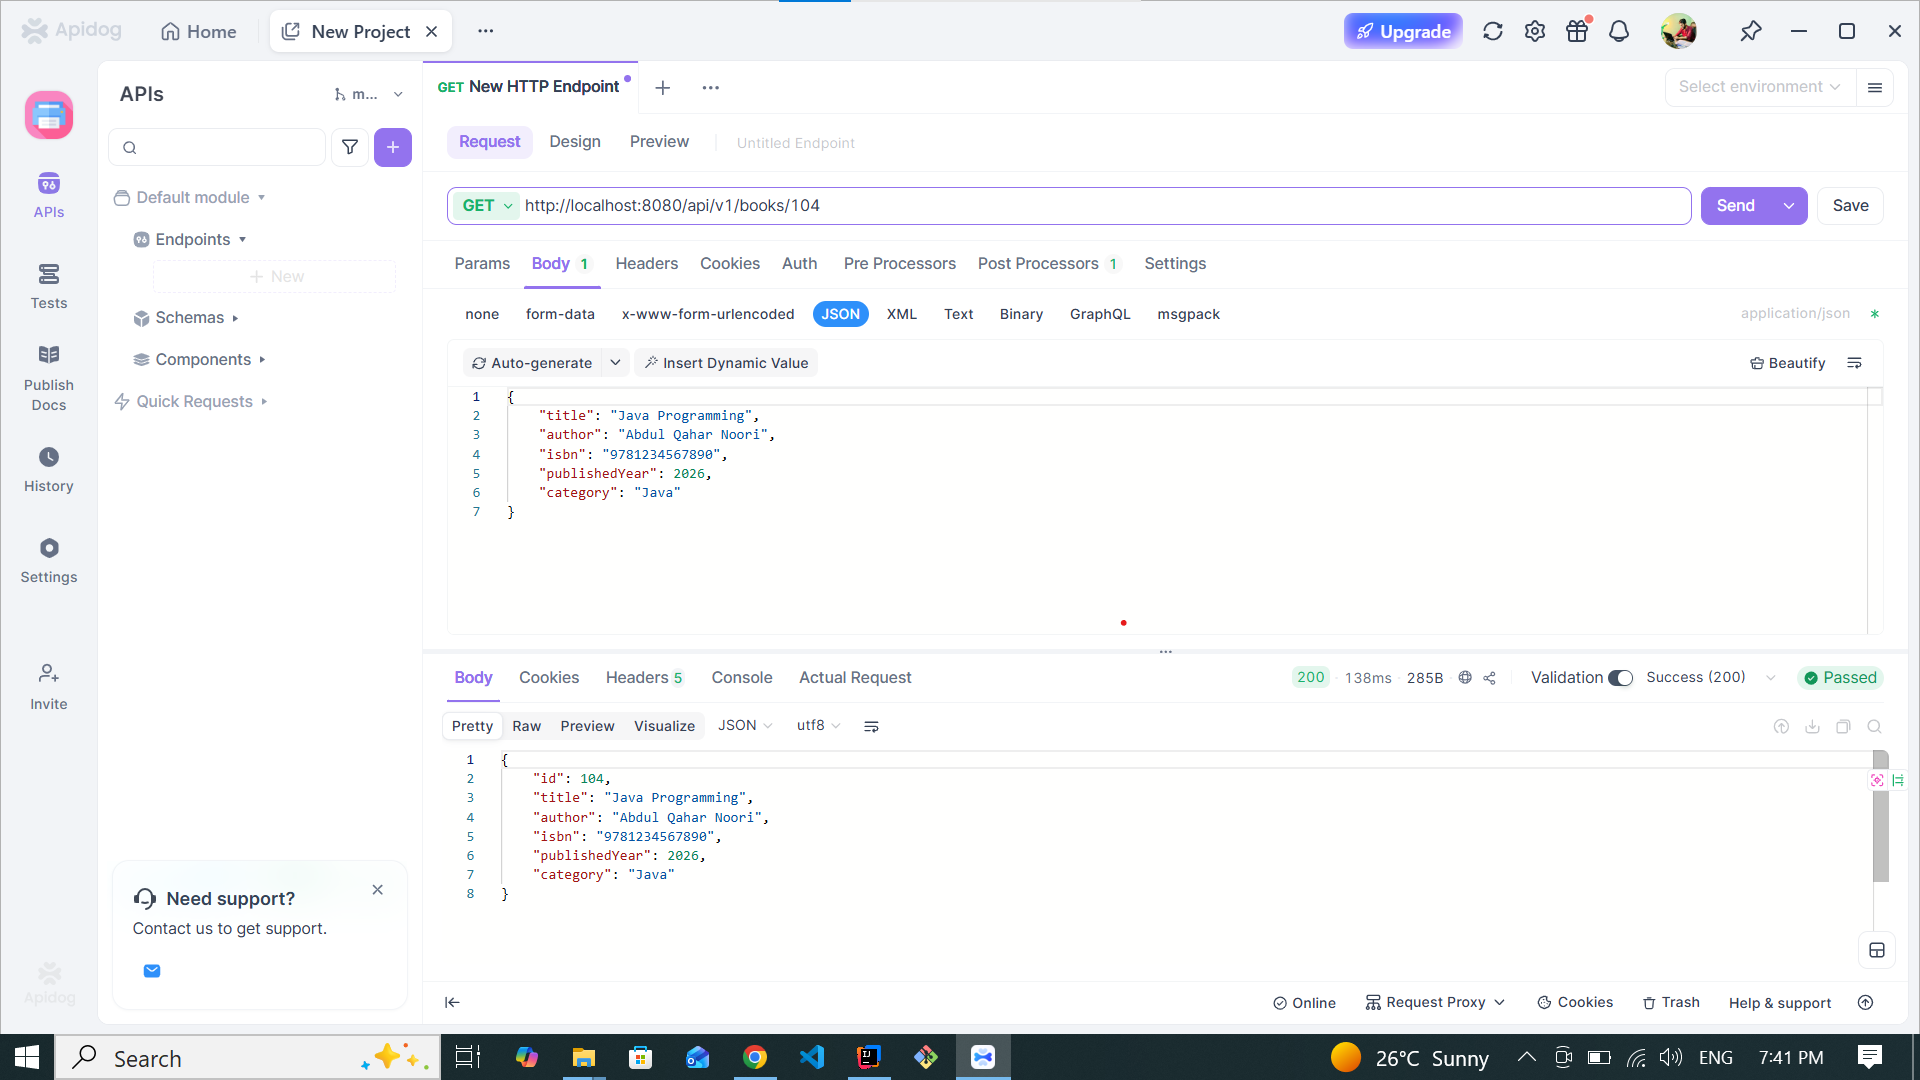
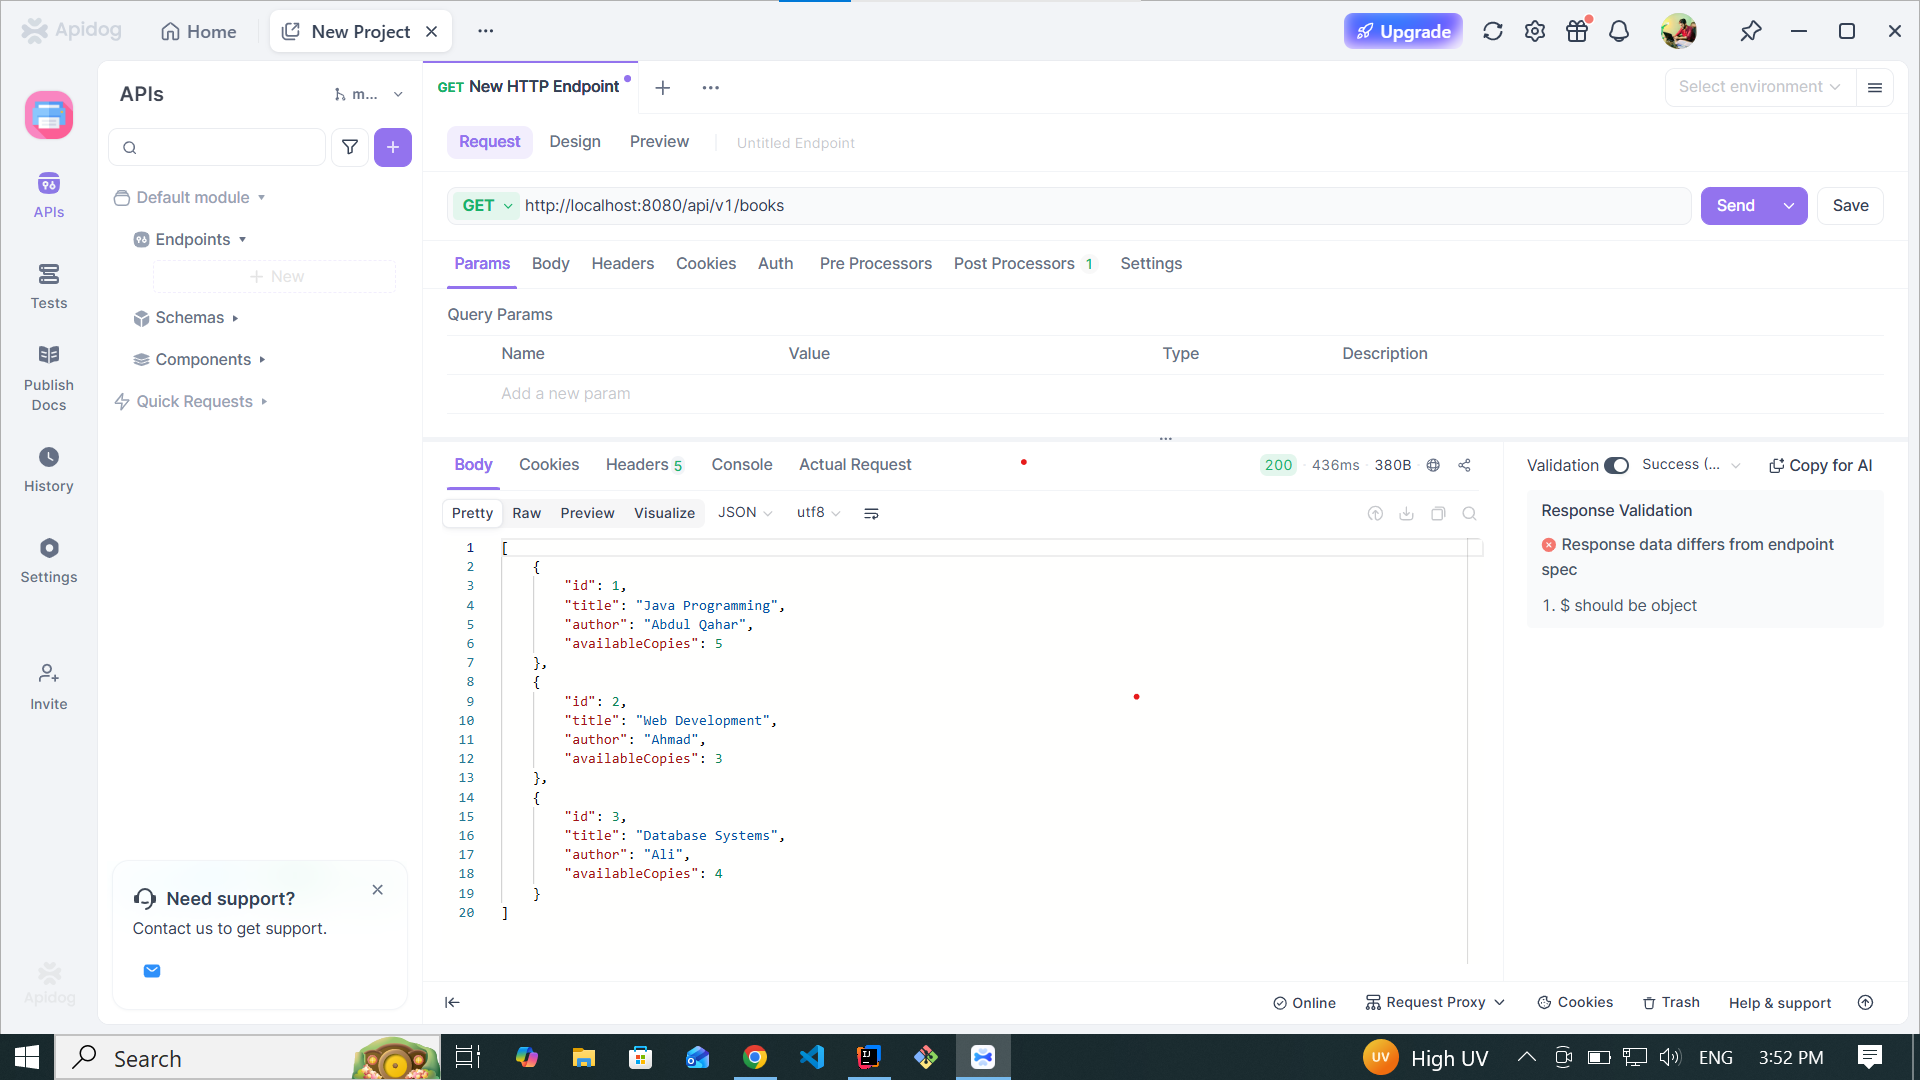
lab three for the put and delete

diff --git a/src/main/java/edu/ku/bookapi/controller/BookController.java b/src/main/java/edu/ku/bookapi/controller/BookController.java
@@ -1,100 +1,90 @@
 package edu.ku.bookapi.controller;
 
+import edu.ku.bookapi.model.Book;
 import edu.ku.bookapi.model.BookInput;
-import edu.ku.bookapi.model.Books;
-
+import org.springframework.http.ResponseEntity;
 import org.springframework.web.bind.annotation.*;
 
+import java.util.ArrayList;
 import java.util.List;
-import java.util.concurrent.CopyOnWriteArrayList;
-import java.util.concurrent.atomic.AtomicLong;
 
 @RestController
 @RequestMapping("/api/v1/books")
 public class BookController {
 
-    // زموږ موقتي کتابونه
-    private final List<Books> books =
-            new CopyOnWriteArrayList<>(
-                    List.of(
-                            new Books(
-                                    101L,
-                                    "Clean Code",
-                                    "Robert C. Martin",
-                                    "9780132350884",
-                                    2008,
-                                    "Software Engineering"
-                            ),
+    private final List<Book> books = new ArrayList<>(List.of(
+            new Book(1L, "Java Programming", "Abdul Qahar", 5),
+            new Book(2L, "Web Development", "Ahmad", 3),
+            new Book(3L, "Database Systems", "Ali", 4)
+    ));
 
-                            new Books(
-                                    102L,
-                                    "Effective Java",
-                                    "Joshua Bloch",
-                                    "9780134685991",
-                                    2018,
-                                    "Java"
-                            ),
-
-                            new Books(
-                                    103L,
-                                    "Spring in Action",
-                                    "Craig Walls",
-                                    "9781617297571",
-                                    2022,
-                                    "Spring"
-                            )
-                    )
-            );
-
-    // د نوي Book لپاره راتلونکې ID
-    private final AtomicLong nextId = new AtomicLong(104);
-
-
-    // =====================================================
-    // GET - ټول Books
-    // =====================================================
-
+    // 1. GET ALL BOOKS
     @GetMapping
-    public List<Books> getAllBooks() {
-
+    public List<Book> getAllBooks() {
         return books;
     }
 
+    // 2. GET BOOK BY ID
+    @GetMapping("/{bookId}")
+    public ResponseEntity<?> getBookById(
+            @PathVariable Long bookId
+    ) {
 
-    // =====================================================
-    // GET - د ID له مخې یو Book
-    // =====================================================
+        for (Book book : books) {
 
-    @GetMapping("/{id}")
-    public Books getBookById(@PathVariable Long id) {
+            if (book.id().equals(bookId)) {
+                return ResponseEntity.ok(book);
+            }
+        }
 
-        return books.stream()
-                .filter(book -> book.getId().equals(id))
-                .findFirst()
-                .orElse(null);
+        return ResponseEntity.notFound().build();
     }
 
+    // 3. PUT - UPDATE BOOK
+    @PutMapping("/{bookId}")
+    public ResponseEntity<?> updateBook(
+            @PathVariable Long bookId,
+            @RequestBody BookInput input
+    ) {
 
-    // =====================================================
-    // POST - نوی Book اضافه کول
-    // =====================================================
+        for (int i = 0; i < books.size(); i++) {
 
-    @PostMapping
-    public Books createBook(@RequestBody BookInput input) {
+            Book book = books.get(i);
 
-        Long newId = nextId.getAndIncrement();
+            if (book.id().equals(bookId)) {
 
-        Books newBook = new Books(
-                newId,
-                input.getTitle(),
-                input.getAuthor(),
-                input.getIsbn(),
-                input.getPublishedYear(),
-                input.getCategory()
-        );
+                Book updatedBook = new Book(
+                        book.id(),
+                        input.title(),
+                        input.author(),
+                        input.availableCopies()
+                );
 
-        books.add(newBook);
+                books.set(i, updatedBook);
 
-        return newBook;
+                return ResponseEntity.ok(updatedBook);
+            }
+        }
+
+        return ResponseEntity.notFound().build();
+    }
+
+    // 4. DELETE BOOK
+    @DeleteMapping("/{bookId}")
+    public ResponseEntity<?> deleteBook(
+            @PathVariable Long bookId
+    ) {
+
+        for (int i = 0; i < books.size(); i++) {
+
+            if (books.get(i).id().equals(bookId)) {
+
+                books.remove(i);
+
+                return ResponseEntity.noContent().build();
+            }
+        }
+
+        return ResponseEntity.notFound().build();
     }
 }

diff --git a/src/main/java/edu/ku/bookapi/model/Book.java b/src/main/java/edu/ku/bookapi/model/Book.java
@@ -1,6 +1,7 @@
 package edu.ku.bookapi.model;
 
-public record BookInput(
+public record Book(
+        Long id,
         String title,
         String author,
         int availableCopies
